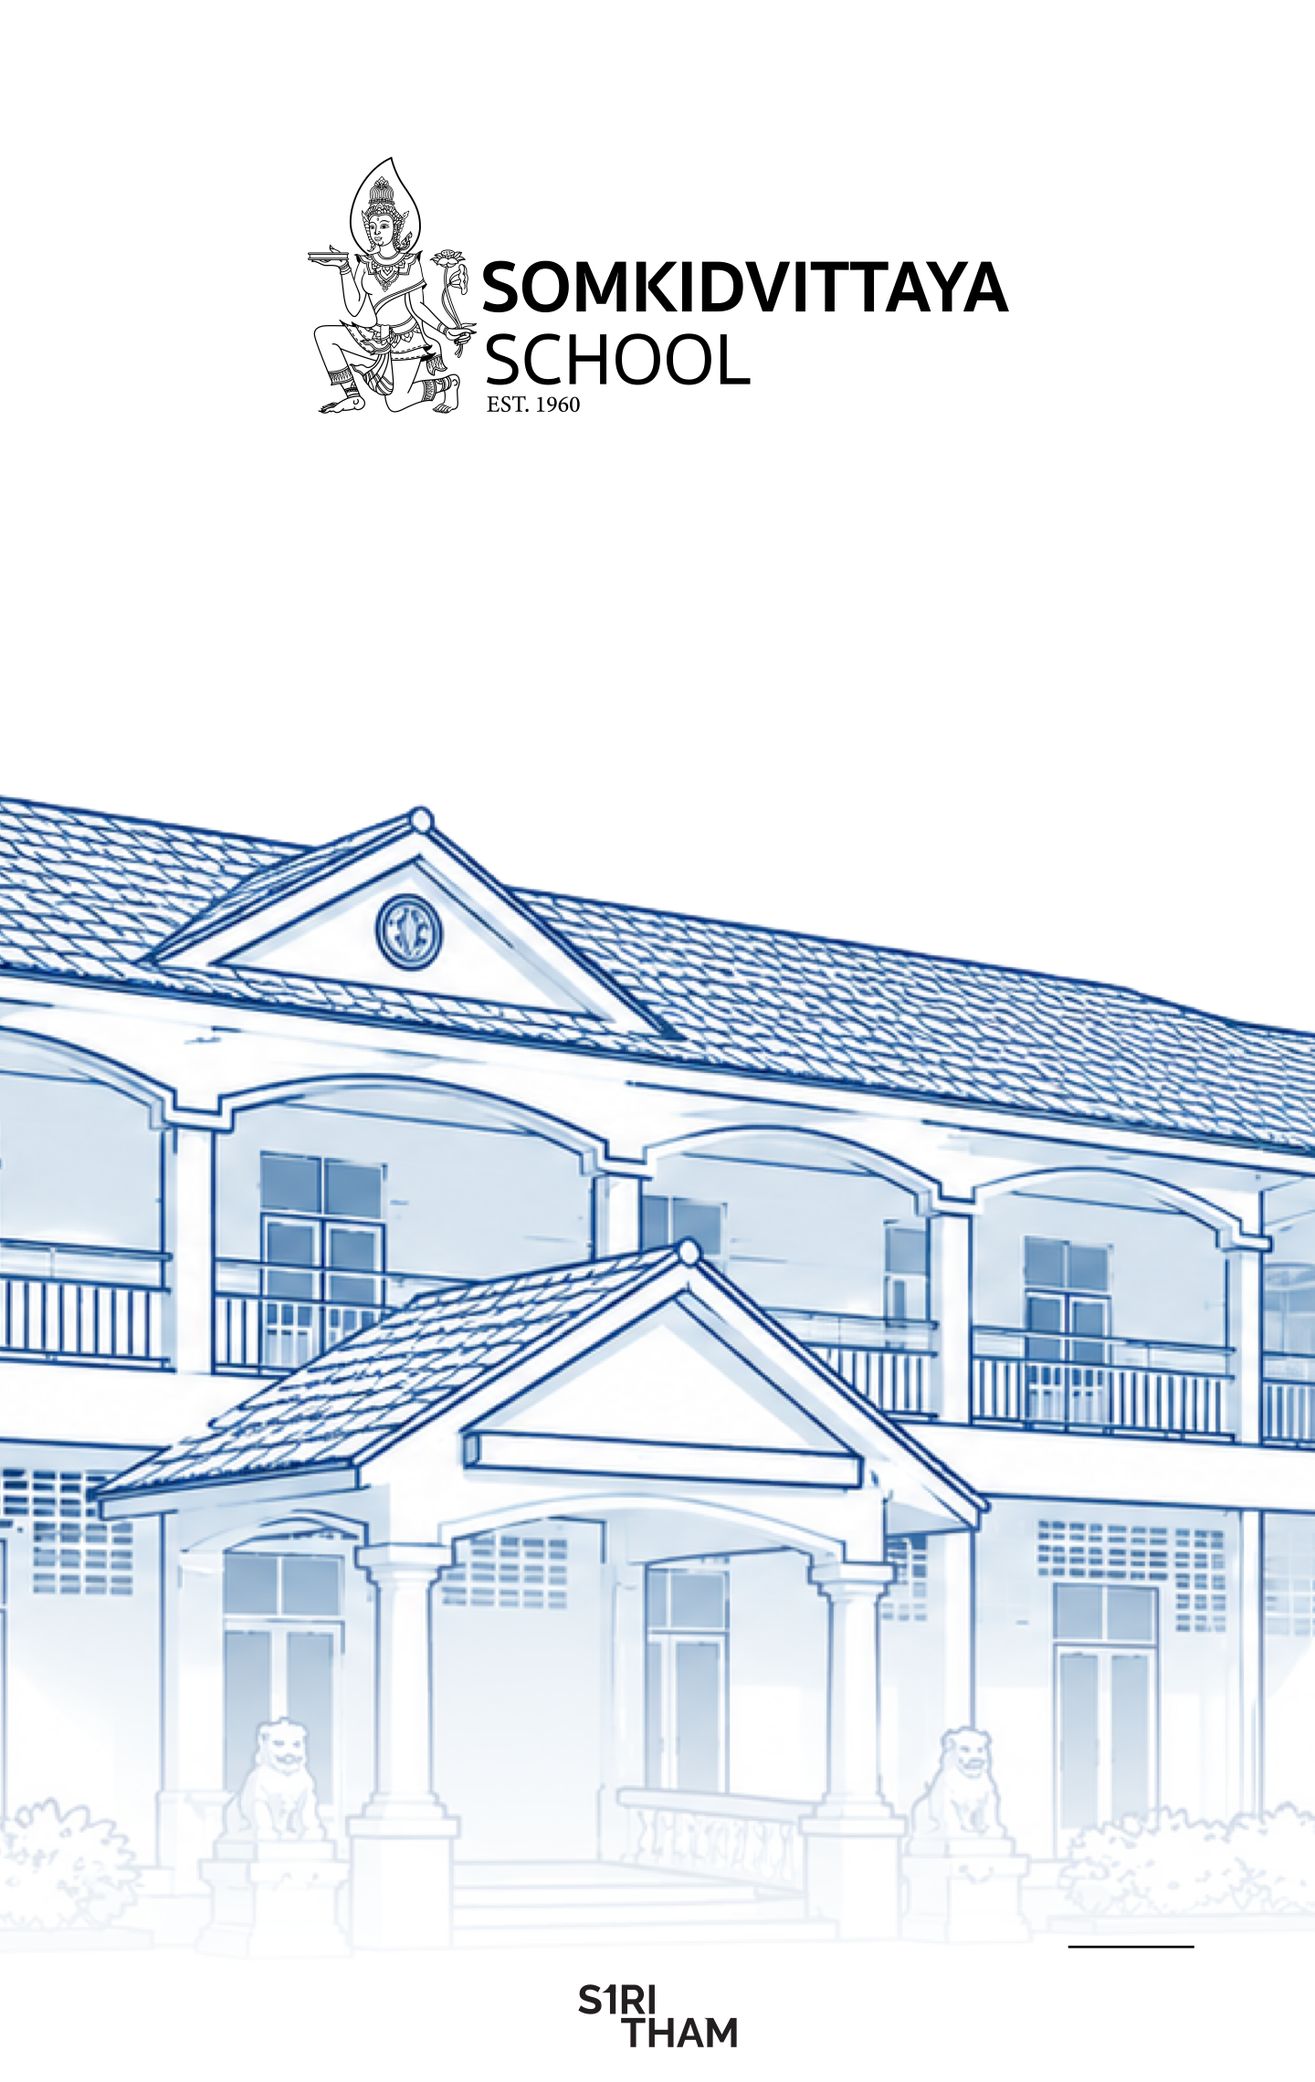
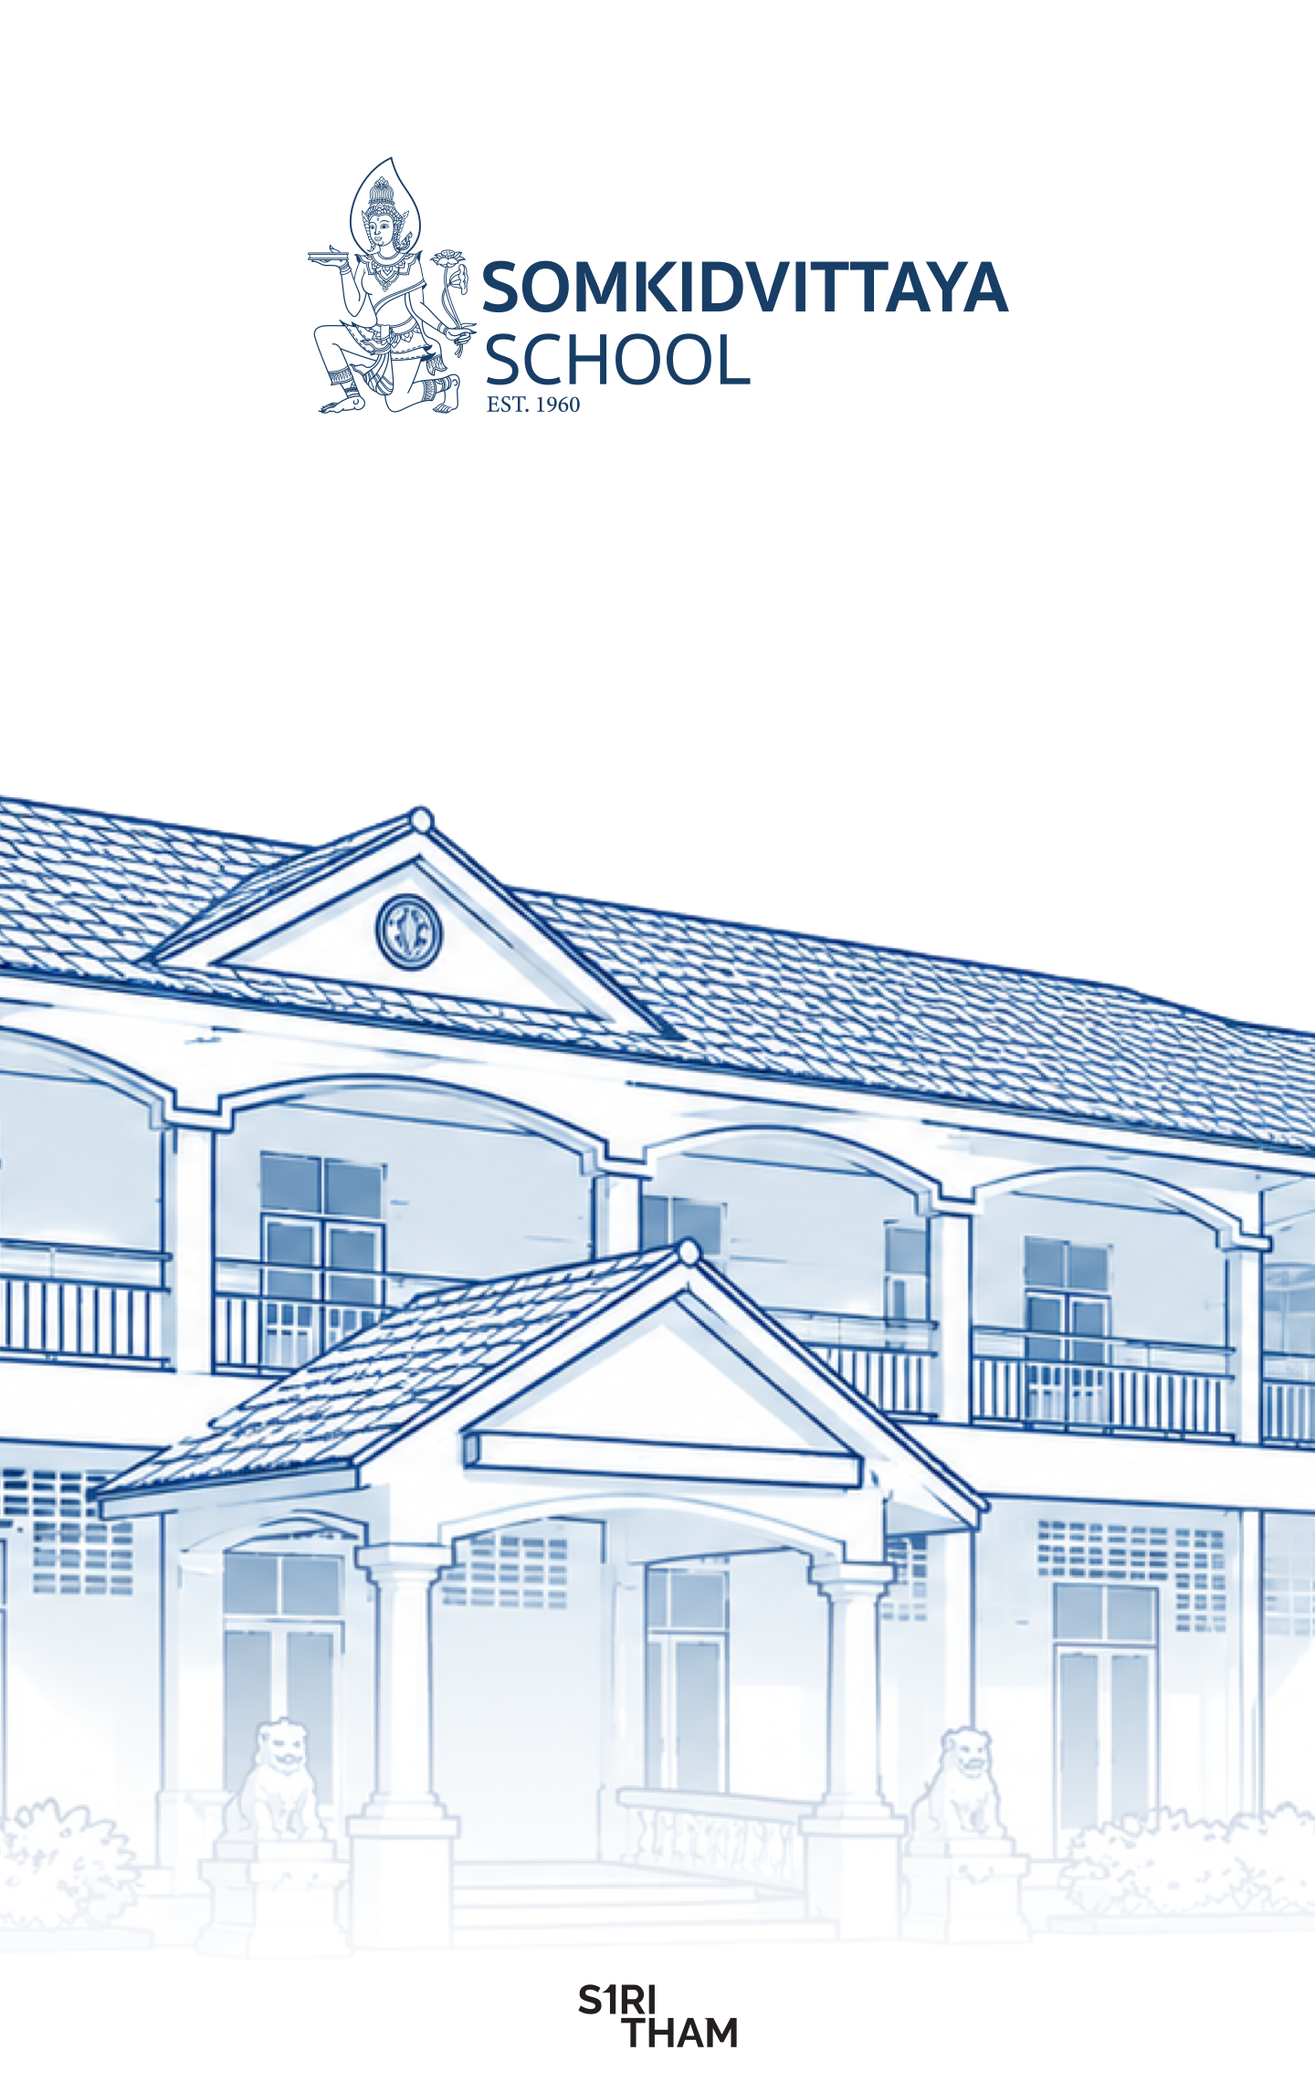
fix(staff-card): restore original mockup colors, edge-to-edge photo layout, and remove sample photo fallback for accounts without photos

Changed region(s): [[0.25, 0.0623, 0.7812, 0.218]]

diff --git a/src/components/staff-card/StaffIdCard.tsx b/src/components/staff-card/StaffIdCard.tsx
@@ -92,8 +92,12 @@ export function StaffIdCard({
     onFlipChange?.(next);
   };
 
-  // Profile image fallback
-  const photoUrl = personnel.image_url || '/staff-card/sample-teacher.png';
+  // Profile image fallback: ONLY Kru Chattraporn defaults to sample teacher image
+  const isSampleKruChattraporn = !personnel.image_url && (
+    Boolean(personnel.name_th?.includes('ฉัตรพร')) || 
+    Boolean(personnel.name_en?.toUpperCase().includes('CHATTRAPORN'))
+  );
+  const photoUrl = personnel.image_url || (isSampleKruChattraporn ? '/staff-card/sample-teacher.png' : null);
 
   return (
     <div className={`flex flex-col items-center select-none ${className}`}>
@@ -136,25 +140,58 @@ export function StaffIdCard({
               style={{ backgroundImage: "url('/staff-card/card-bg.png')" }}
             />
 
-            {/* Layer 2: Person Portrait Photo (Opaque, Solid Cutout) */}
-            <div 
-              className="absolute inset-0 w-full h-full flex items-center justify-center pointer-events-none"
-            >
-              {/* eslint-disable-next-line @next/next/no-img-element */}
-              <img
-                src={photoUrl}
-                alt={nameInfo.fullNameEn || 'Staff Portrait'}
-                className="w-full h-[90%] object-contain object-bottom transition-transform duration-300 group-hover:scale-[1.02]"
-                loading="eager"
-              />
-            </div>
+            {/* Layer 2: Person Portrait Photo or Silhouette Placeholder */}
+            {photoUrl ? (
+              <div 
+                className="absolute pointer-events-none overflow-hidden"
+                style={{
+                  width: '110.24%',
+                  left: '-1.17%',
+                  bottom: 0,
+                  height: '92.83%',
+                  zIndex: 2,
+                }}
+              >
+                {/* eslint-disable-next-line @next/next/no-img-element */}
+                <img
+                  src={photoUrl}
+                  alt={nameInfo.fullNameEn || 'Staff Portrait'}
+                  className="w-full h-full object-cover object-top transition-transform duration-300 group-hover:scale-[1.01]"
+                  loading="eager"
+                />
+              </div>
+            ) : (
+              <div 
+                className="absolute inset-x-0 pointer-events-none flex flex-col items-center justify-center z-[2]"
+                style={{
+                  top: '22%',
+                  bottom: '32%',
+                }}
+              >
+                <div className="flex flex-col items-center justify-center p-5 rounded-2xl bg-white/70 backdrop-blur-xs border border-dashed border-[#183e66]/30 shadow-xs max-w-[70%] text-center">
+                  <div className="w-16 h-16 sm:w-20 sm:h-20 rounded-full bg-gradient-to-tr from-[#183e66] to-[#255f9a] text-white flex items-center justify-center shadow-md mb-2.5">
+                    {nameInfo.firstName ? (
+                      <span className="text-xl sm:text-2xl font-bold tracking-wider font-mono">
+                        {nameInfo.firstName.slice(0, 2)}
+                      </span>
+                    ) : (
+                      <User className="w-8 h-8 text-white/90" />
+                    )}
+                  </div>
+                  <p className="text-[11px] font-bold text-[#183e66]">ยังไม่มีรูปถ่ายประจำตัว</p>
+                  <p className="text-[9px] text-slate-500 mt-0.5 leading-snug">
+                    สามารถใส่รูปและข้อมูลติดต่อได้ที่ปุ่ม &quot;แก้ไขข้อมูลติดต่อ / โซเชียล&quot;
+                  </p>
+                </div>
+              </div>
+            )}
 
             {/* Layer 2.5: Soft White Bottom Gradient Overlay (Covers bottom of photo & building sketch behind text) */}
             <div 
-              className="absolute inset-x-0 bottom-0 pointer-events-none z-[5]"
+              className="absolute inset-x-0 bottom-0 pointer-events-none z-[3]"
               style={{
-                height: `${Math.round(height * 0.40)}px`,
-                background: 'linear-gradient(to top, rgba(255,255,255,1) 0%, rgba(255,255,255,0.98) 25%, rgba(255,255,255,0.7) 55%, rgba(255,255,255,0) 100%)',
+                height: `${Math.round(height * 0.30)}px`,
+                background: 'linear-gradient(to top, rgba(255,255,255,1) 0%, rgba(255,255,255,0.96) 25%, rgba(255,255,255,0.65) 60%, rgba(255,255,255,0) 100%)',
               }}
             />
 
@@ -171,47 +208,81 @@ export function StaffIdCard({
             </div>
 
             {/* Layer 4: Foreground Typography (First Name, Last Name, Position) */}
-            <div className="absolute inset-x-0 bottom-0 z-10 px-6 sm:px-7 pb-10 sm:pb-12 pointer-events-none">
-              <div className="flex flex-col">
-                {/* First Name (Large Bold Navy) */}
-                <h1 
-                  className="font-bold tracking-tight text-[#183e66] leading-[0.92] uppercase drop-shadow-xs"
-                  style={{
-                    fontSize: `${Math.round(width * 0.11)}px`,
-                    fontFamily: '"Sukhumvit Set", sans-serif',
-                  }}
-                >
-                  {nameInfo.firstName}
-                </h1>
-
-                {/* Last Name (Medium Navy, Right Indented) */}
-                <div className="flex justify-end pr-2 -mt-1 sm:-mt-1.5">
-                  <h2 
-                    className="font-medium text-[#183e66] leading-none uppercase drop-shadow-xs"
+            <div 
+              className="absolute inset-x-0 bottom-0 z-10 pointer-events-none"
+              style={{
+                paddingLeft: `${Math.round(width * 0.0726)}px`,
+                paddingRight: `${Math.round(width * 0.0726)}px`,
+                paddingBottom: `${Math.round(height * 0.065)}px`,
+              }}
+            >
+              {nameInfo.lastName ? (
+                <div className="flex flex-col">
+                  {/* First Name (Large Bold Navy) */}
+                  <h1 
+                    className="font-bold tracking-tight text-[#183e66] leading-[0.9] uppercase drop-shadow-xs"
                     style={{
-                      fontSize: `${Math.round(width * 0.065)}px`,
+                      fontSize: `${Math.round(width * 0.126)}px`,
                       fontFamily: '"Sukhumvit Set", sans-serif',
                     }}
                   >
-                    {nameInfo.lastName}
-                  </h2>
-                </div>
+                    {nameInfo.firstName}
+                  </h1>
 
-                {/* Position with matching underline */}
-                <div className="flex justify-end items-center gap-2 mt-1 pr-2">
-                  <div className="flex flex-col items-end">
+                  {/* Last Name (Medium Navy, Right Indented) */}
+                  <div className="flex justify-end -mt-1 sm:-mt-1.5">
+                    <h2 
+                      className="font-medium text-[#183e66] leading-none uppercase drop-shadow-xs"
+                      style={{
+                        fontSize: `${Math.round(width * 0.071)}px`,
+                        fontFamily: '"Sukhumvit Set", sans-serif',
+                      }}
+                    >
+                      {nameInfo.lastName}
+                    </h2>
+                  </div>
+
+                  {/* Position with matching underline */}
+                  <div className="flex justify-end items-center mt-1">
+                    <div className="flex flex-col items-end">
+                      <span 
+                        className="text-[#183e66] font-bold tracking-wider uppercase opacity-95"
+                        style={{
+                          fontSize: `${Math.max(9, Math.round(width * 0.024))}px`,
+                        }}
+                      >
+                        {positionEn}
+                      </span>
+                      <div className="w-full h-[1.5px] bg-[#183e66] opacity-80 mt-0.5 rounded-full" />
+                    </div>
+                  </div>
+                </div>
+              ) : (
+                <div className="flex flex-col">
+                  {/* Single Name (e.g. Workspace Admin) */}
+                  <h1 
+                    className="font-bold tracking-tight text-[#183e66] leading-[0.9] uppercase drop-shadow-xs"
+                    style={{
+                      fontSize: `${Math.round(width * 0.126)}px`,
+                      fontFamily: '"Sukhumvit Set", sans-serif',
+                    }}
+                  >
+                    {nameInfo.firstName}
+                  </h1>
+
+                  <div className="flex items-center justify-between mt-1 pt-1 border-t border-[#183e66]/20">
                     <span 
-                      className="text-[#183e66] font-semibold tracking-wider uppercase opacity-90"
+                      className="text-[#183e66] font-bold tracking-wider uppercase opacity-95"
                       style={{
                         fontSize: `${Math.max(9, Math.round(width * 0.024))}px`,
                       }}
                     >
                       {positionEn}
                     </span>
-                    <div className="w-full h-[1.5px] bg-[#183e66] opacity-70 mt-0.5 rounded-full" />
+                    <div className="w-12 h-[1.5px] bg-[#183e66] opacity-80 rounded-full" />
                   </div>
                 </div>
-              </div>
+              )}
             </div>
 
             {/* Hologram Light Sheen (Simulates Physical Card Lamination Reflection) */}

diff --git a/src/components/staff-card/StaffContactEditModal.tsx b/src/components/staff-card/StaffContactEditModal.tsx
@@ -33,6 +33,8 @@ export function StaffContactEditModal({
   onUpdated,
 }: StaffContactEditModalProps) {
   const [formData, setFormData] = useState({
+    name_en: '',
+    image_url: '',
     phone: '',
     line_id: '',
     facebook_url: '',
@@ -48,6 +50,8 @@ export function StaffContactEditModal({
   useEffect(() => {
     if (personnel) {
       setFormData({
+        name_en: personnel.name_en || '',
+        image_url: personnel.image_url || '',
         phone: personnel.phone || '',
         line_id: personnel.line_id || '',
         facebook_url: personnel.facebook_url || '',
@@ -123,6 +127,39 @@ export function StaffContactEditModal({
           </div>
 
           <form onSubmit={handleSubmit} className="space-y-4">
+            {/* English Name & Profile Photo URL */}
+            <div className="grid grid-cols-1 sm:grid-cols-2 gap-3 p-3.5 rounded-2xl bg-slate-50 dark:bg-slate-800/60 border border-slate-200/80 dark:border-slate-700/80">
+              <div>
+                <label className="block text-xs font-bold text-slate-700 dark:text-slate-300 mb-1 flex items-center gap-1.5">
+                  <Sparkles className="w-3.5 h-3.5 text-sky-600" />
+                  <span>ชื่อภาษาอังกฤษบนหน้าบัตร</span>
+                </label>
+                <input
+                  type="text"
+                  placeholder="เช่น CHATTRAPORN CHIMPOO หรือ ADMIN"
+                  value={formData.name_en}
+                  onChange={(e) => setFormData({ ...formData, name_en: e.target.value })}
+                  className="w-full px-3.5 py-2.5 rounded-xl border border-slate-200 dark:border-slate-700 bg-white dark:bg-slate-900 text-xs text-slate-800 dark:text-slate-100 focus:outline-none focus:ring-2 focus:ring-sky-500/20 focus:border-sky-500 uppercase"
+                />
+                <p className="text-[10px] text-slate-400 mt-1">จะถูกจัดวางเป็นชื่อตัวใหญ่และนามสกุลบนหน้าบัตร</p>
+              </div>
+
+              <div>
+                <label className="block text-xs font-bold text-slate-700 dark:text-slate-300 mb-1 flex items-center gap-1.5">
+                  <Globe className="w-3.5 h-3.5 text-indigo-600" />
+                  <span>ลิงก์รูปถ่ายประจำตัว (Portrait URL)</span>
+                </label>
+                <input
+                  type="url"
+                  placeholder="เช่น https://.../photo.png (รูปพื้นหลังโปร่งใสหรือภาพถ่ายตรง)"
+                  value={formData.image_url}
+                  onChange={(e) => setFormData({ ...formData, image_url: e.target.value })}
+                  className="w-full px-3.5 py-2.5 rounded-xl border border-slate-200 dark:border-slate-700 bg-white dark:bg-slate-900 text-xs text-slate-800 dark:text-slate-100 focus:outline-none focus:ring-2 focus:ring-sky-500/20 focus:border-sky-500"
+                />
+                <p className="text-[10px] text-slate-400 mt-1">หากไม่ใส่ จะแสดงตราสัญลักษณ์ประจำตัวแทน</p>
+              </div>
+            </div>
+
             {/* Phone & Office Room */}
             <div className="grid grid-cols-1 sm:grid-cols-2 gap-3">
               <div>

diff --git a/src/app/api/staff/profile/route.ts b/src/app/api/staff/profile/route.ts
@@ -68,10 +68,53 @@ export async function PUT(request: Request) {
     }
 
     if (!targetId) {
-      return NextResponse.json(
-        { error: 'ไม่พบข้อมูลบุคลากรที่ต้องการอัปเดต' },
-        { status: 404 }
-      );
+      // Auto-create personnel record for logged-in user if missing
+      const { data: appUserData } = await supabase
+        .from('app_users')
+        .select('full_name, role')
+        .eq('id', authUser.id)
+        .single();
+
+      const defaultNameEn = body.name_en?.trim()?.toUpperCase() || 
+        (appUserData?.full_name && /^[A-Za-z\s]+$/.test(appUserData.full_name) 
+          ? appUserData.full_name.trim().toUpperCase() 
+          : (authUser.email?.split('@')[0]?.toUpperCase() || 'STAFF'));
+
+      const newPersonnel = {
+        user_id: authUser.id,
+        name_th: appUserData?.full_name || authUser.email?.split('@')[0] || 'บุคลากร',
+        name_en: defaultNameEn,
+        position_th: appUserData?.role === 'admin' ? 'ผู้ดูแลระบบ (Admin)' : 'บุคลากรทางการศึกษา',
+        position_en: appUserData?.role === 'admin' ? 'Administrator' : 'Academic Staff',
+        category: appUserData?.role || 'staff',
+        email: authUser.email,
+        phone: phone !== undefined ? phone?.trim() : null,
+        line_id: line_id !== undefined ? line_id?.trim() : null,
+        facebook_url: facebook_url !== undefined ? facebook_url?.trim() : null,
+        instagram_url: instagram_url !== undefined ? instagram_url?.trim() : null,
+        tiktok_url: tiktok_url !== undefined ? tiktok_url?.trim() : null,
+        linkedin_url: linkedin_url !== undefined ? linkedin_url?.trim() : null,
+        office_room: office_room !== undefined ? office_room?.trim() : null,
+        card_bio: card_bio !== undefined ? card_bio?.trim() : null,
+        image_url: body.image_url !== undefined ? (body.image_url?.trim() || null) : null,
+        is_active: true,
+      };
+
+      const { data: created, error: createErr } = await supabase
+        .from('personnel')
+        .insert(newPersonnel)
+        .select()
+        .single();
+
+      if (createErr) throw createErr;
+
+      // Link back to app_users
+      await supabase
+        .from('app_users')
+        .update({ personnel_id: created.id })
+        .eq('id', authUser.id);
+
+      return NextResponse.json({ personnel: created, success: true });
     }
 
     const updatePayload: Record<string, any> = {
@@ -83,6 +126,8 @@ export async function PUT(request: Request) {
       linkedin_url: linkedin_url !== undefined ? linkedin_url?.trim() : undefined,
       office_room: office_room !== undefined ? office_room?.trim() : undefined,
       card_bio: card_bio !== undefined ? card_bio?.trim() : undefined,
+      name_en: body.name_en !== undefined ? body.name_en?.trim()?.toUpperCase() : undefined,
+      image_url: body.image_url !== undefined ? (body.image_url?.trim() || null) : undefined,
       updated_at: new Date().toISOString(),
     };
 

diff --git a/src/app/api/staff/id-card/route.ts b/src/app/api/staff/id-card/route.ts
@@ -95,14 +95,18 @@ export async function GET(request: Request) {
     }
 
     // 5. If no record exists, generate a virtual personnel object from auth user
+    const defaultNameEn = (appUserData?.full_name && /^[A-Za-z\s]+$/.test(appUserData.full_name)) 
+      ? appUserData.full_name.trim().toUpperCase() 
+      : (authUser.email?.split('@')[0]?.toUpperCase() || 'STAFF');
+
     const virtualPersonnel = {
       id: authUser.id,
       name_th: appUserData?.full_name || authUser.email?.split('@')[0] || 'บุคลากร',
-      name_en: authUser.email?.split('@')[0]?.toUpperCase() || 'STAFF',
+      name_en: defaultNameEn,
       position_th: appUserData?.role === 'admin' ? 'ผู้ดูแลระบบ (Admin)' : 'บุคลากรทางการศึกษา',
       position_en: appUserData?.role === 'admin' ? 'Administrator' : 'Academic Staff',
       category: appUserData?.role || 'staff',
-      image_url: '/staff-card/sample-teacher.png',
+      image_url: null, // Do not default to sample teacher; show placeholder if no photo
       email: authUser.email,
       is_active: true,
     };
